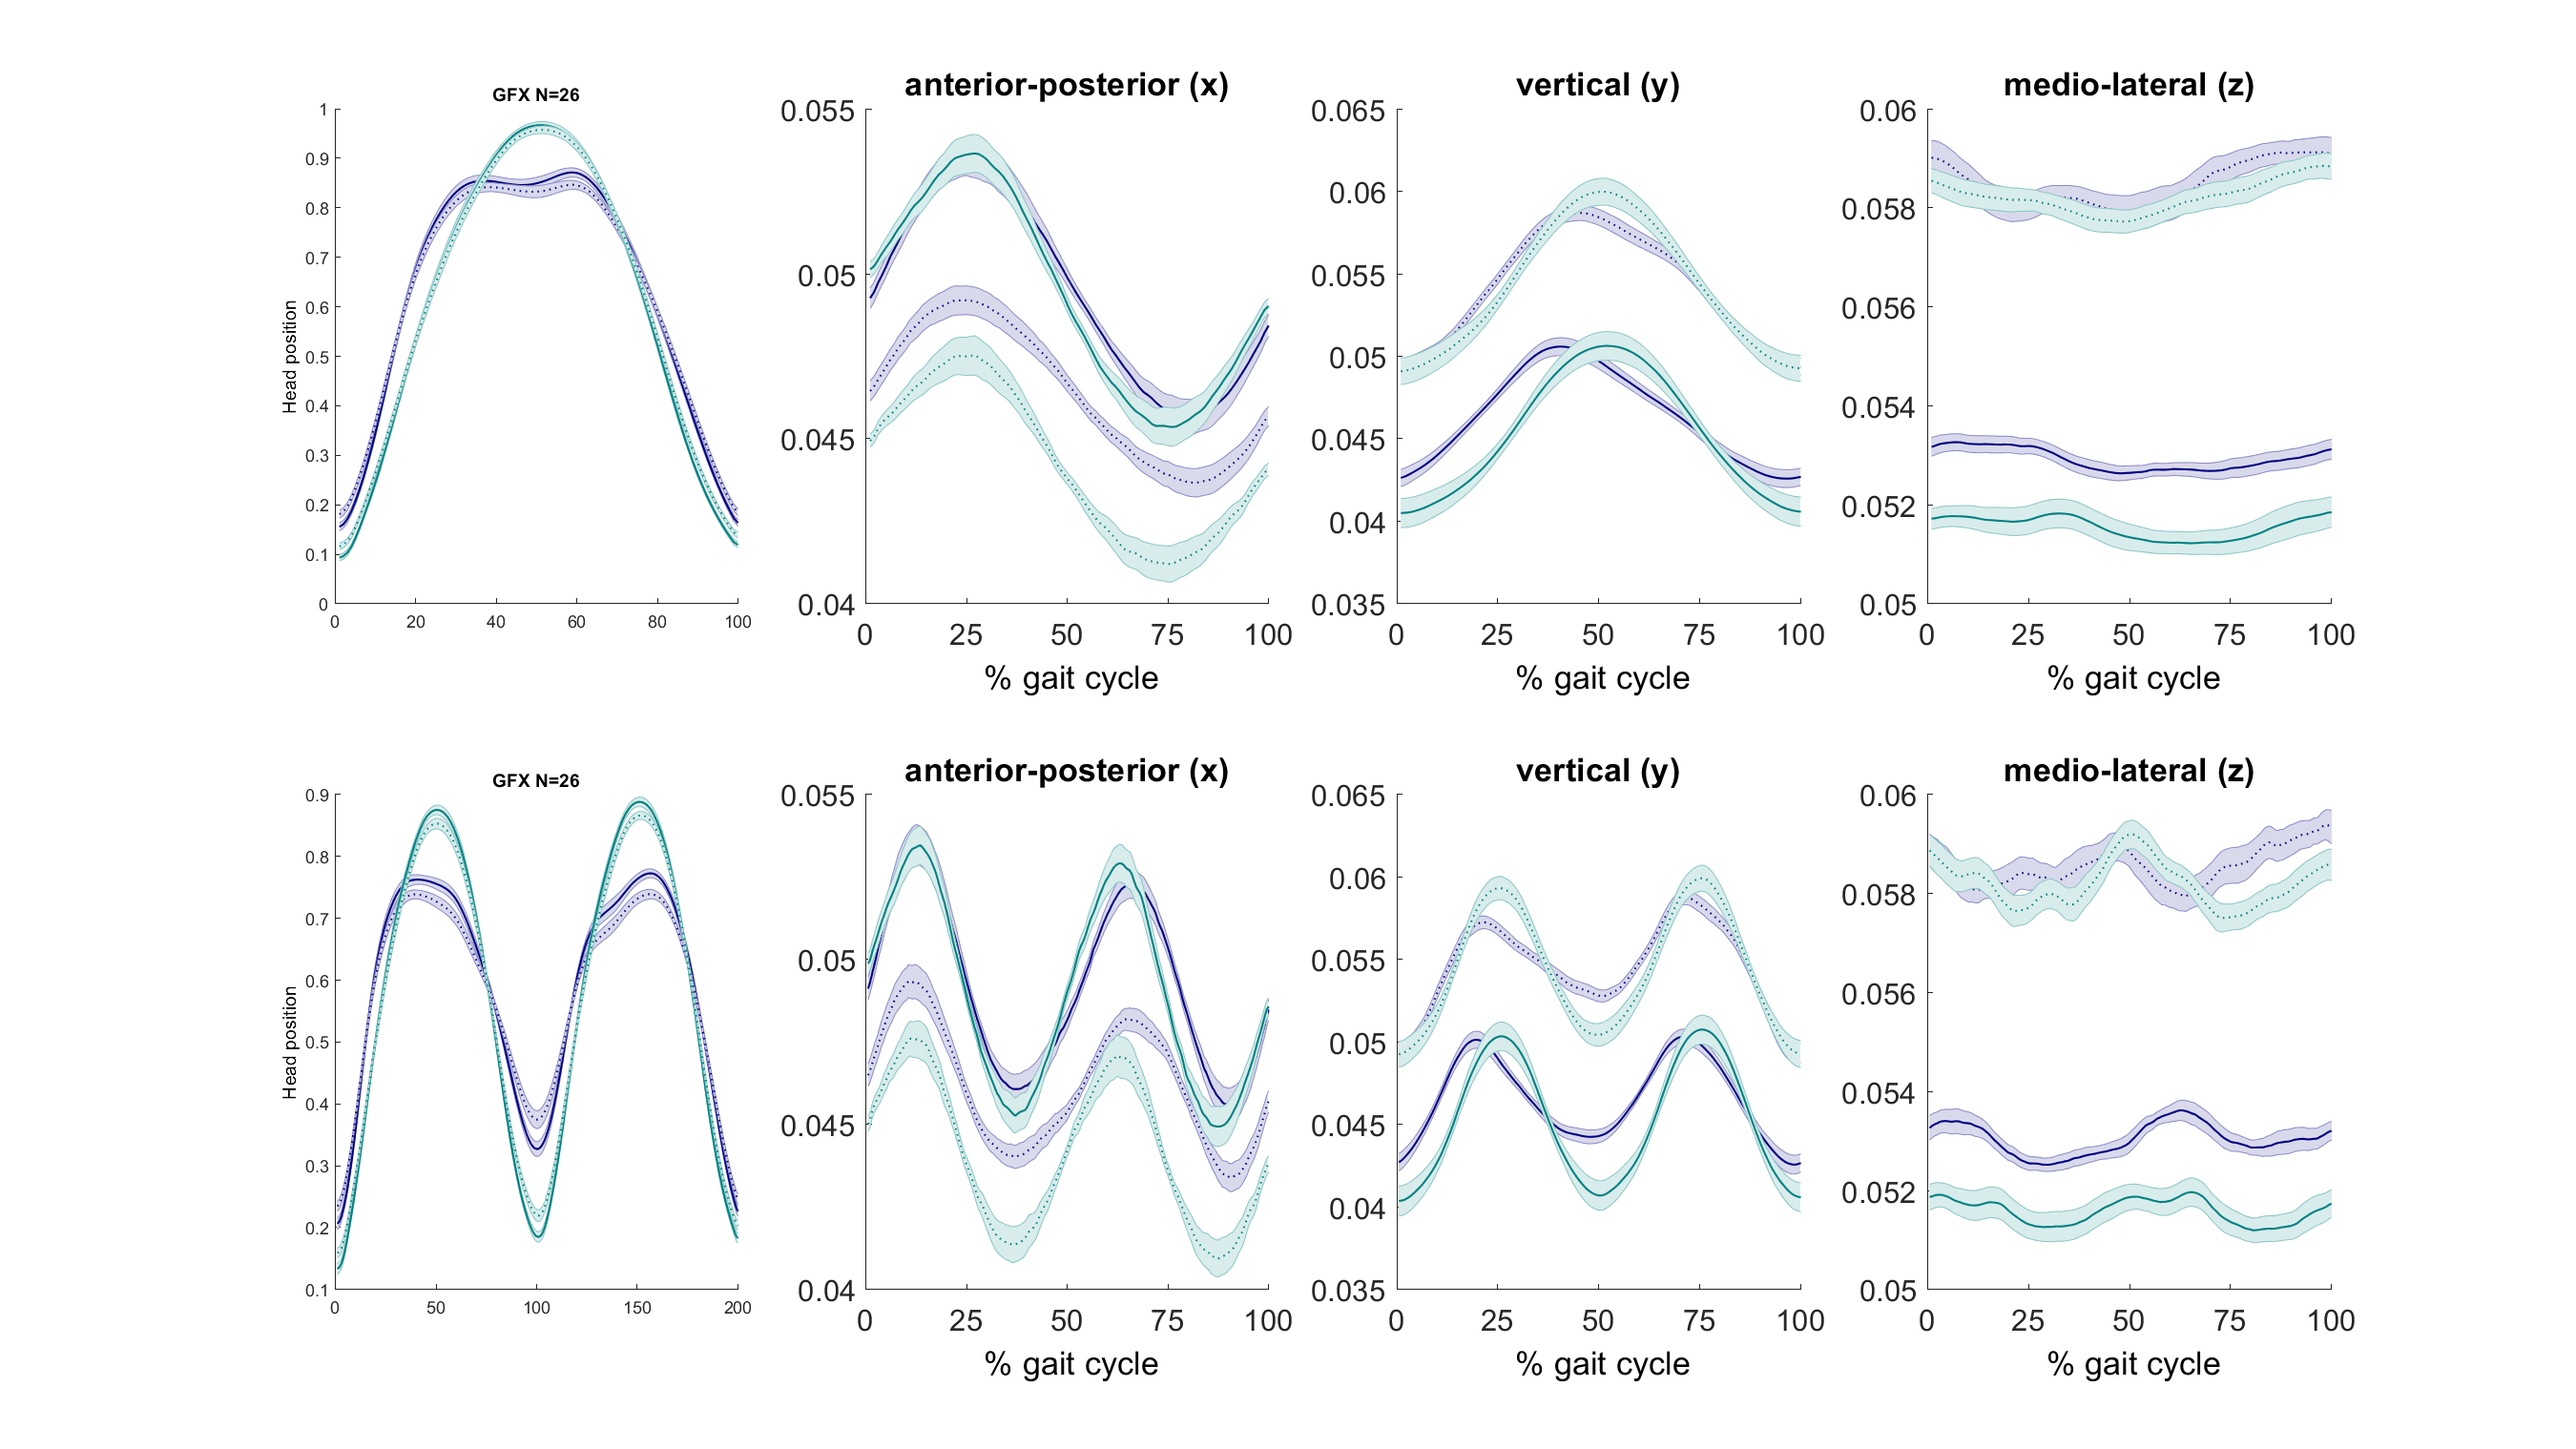
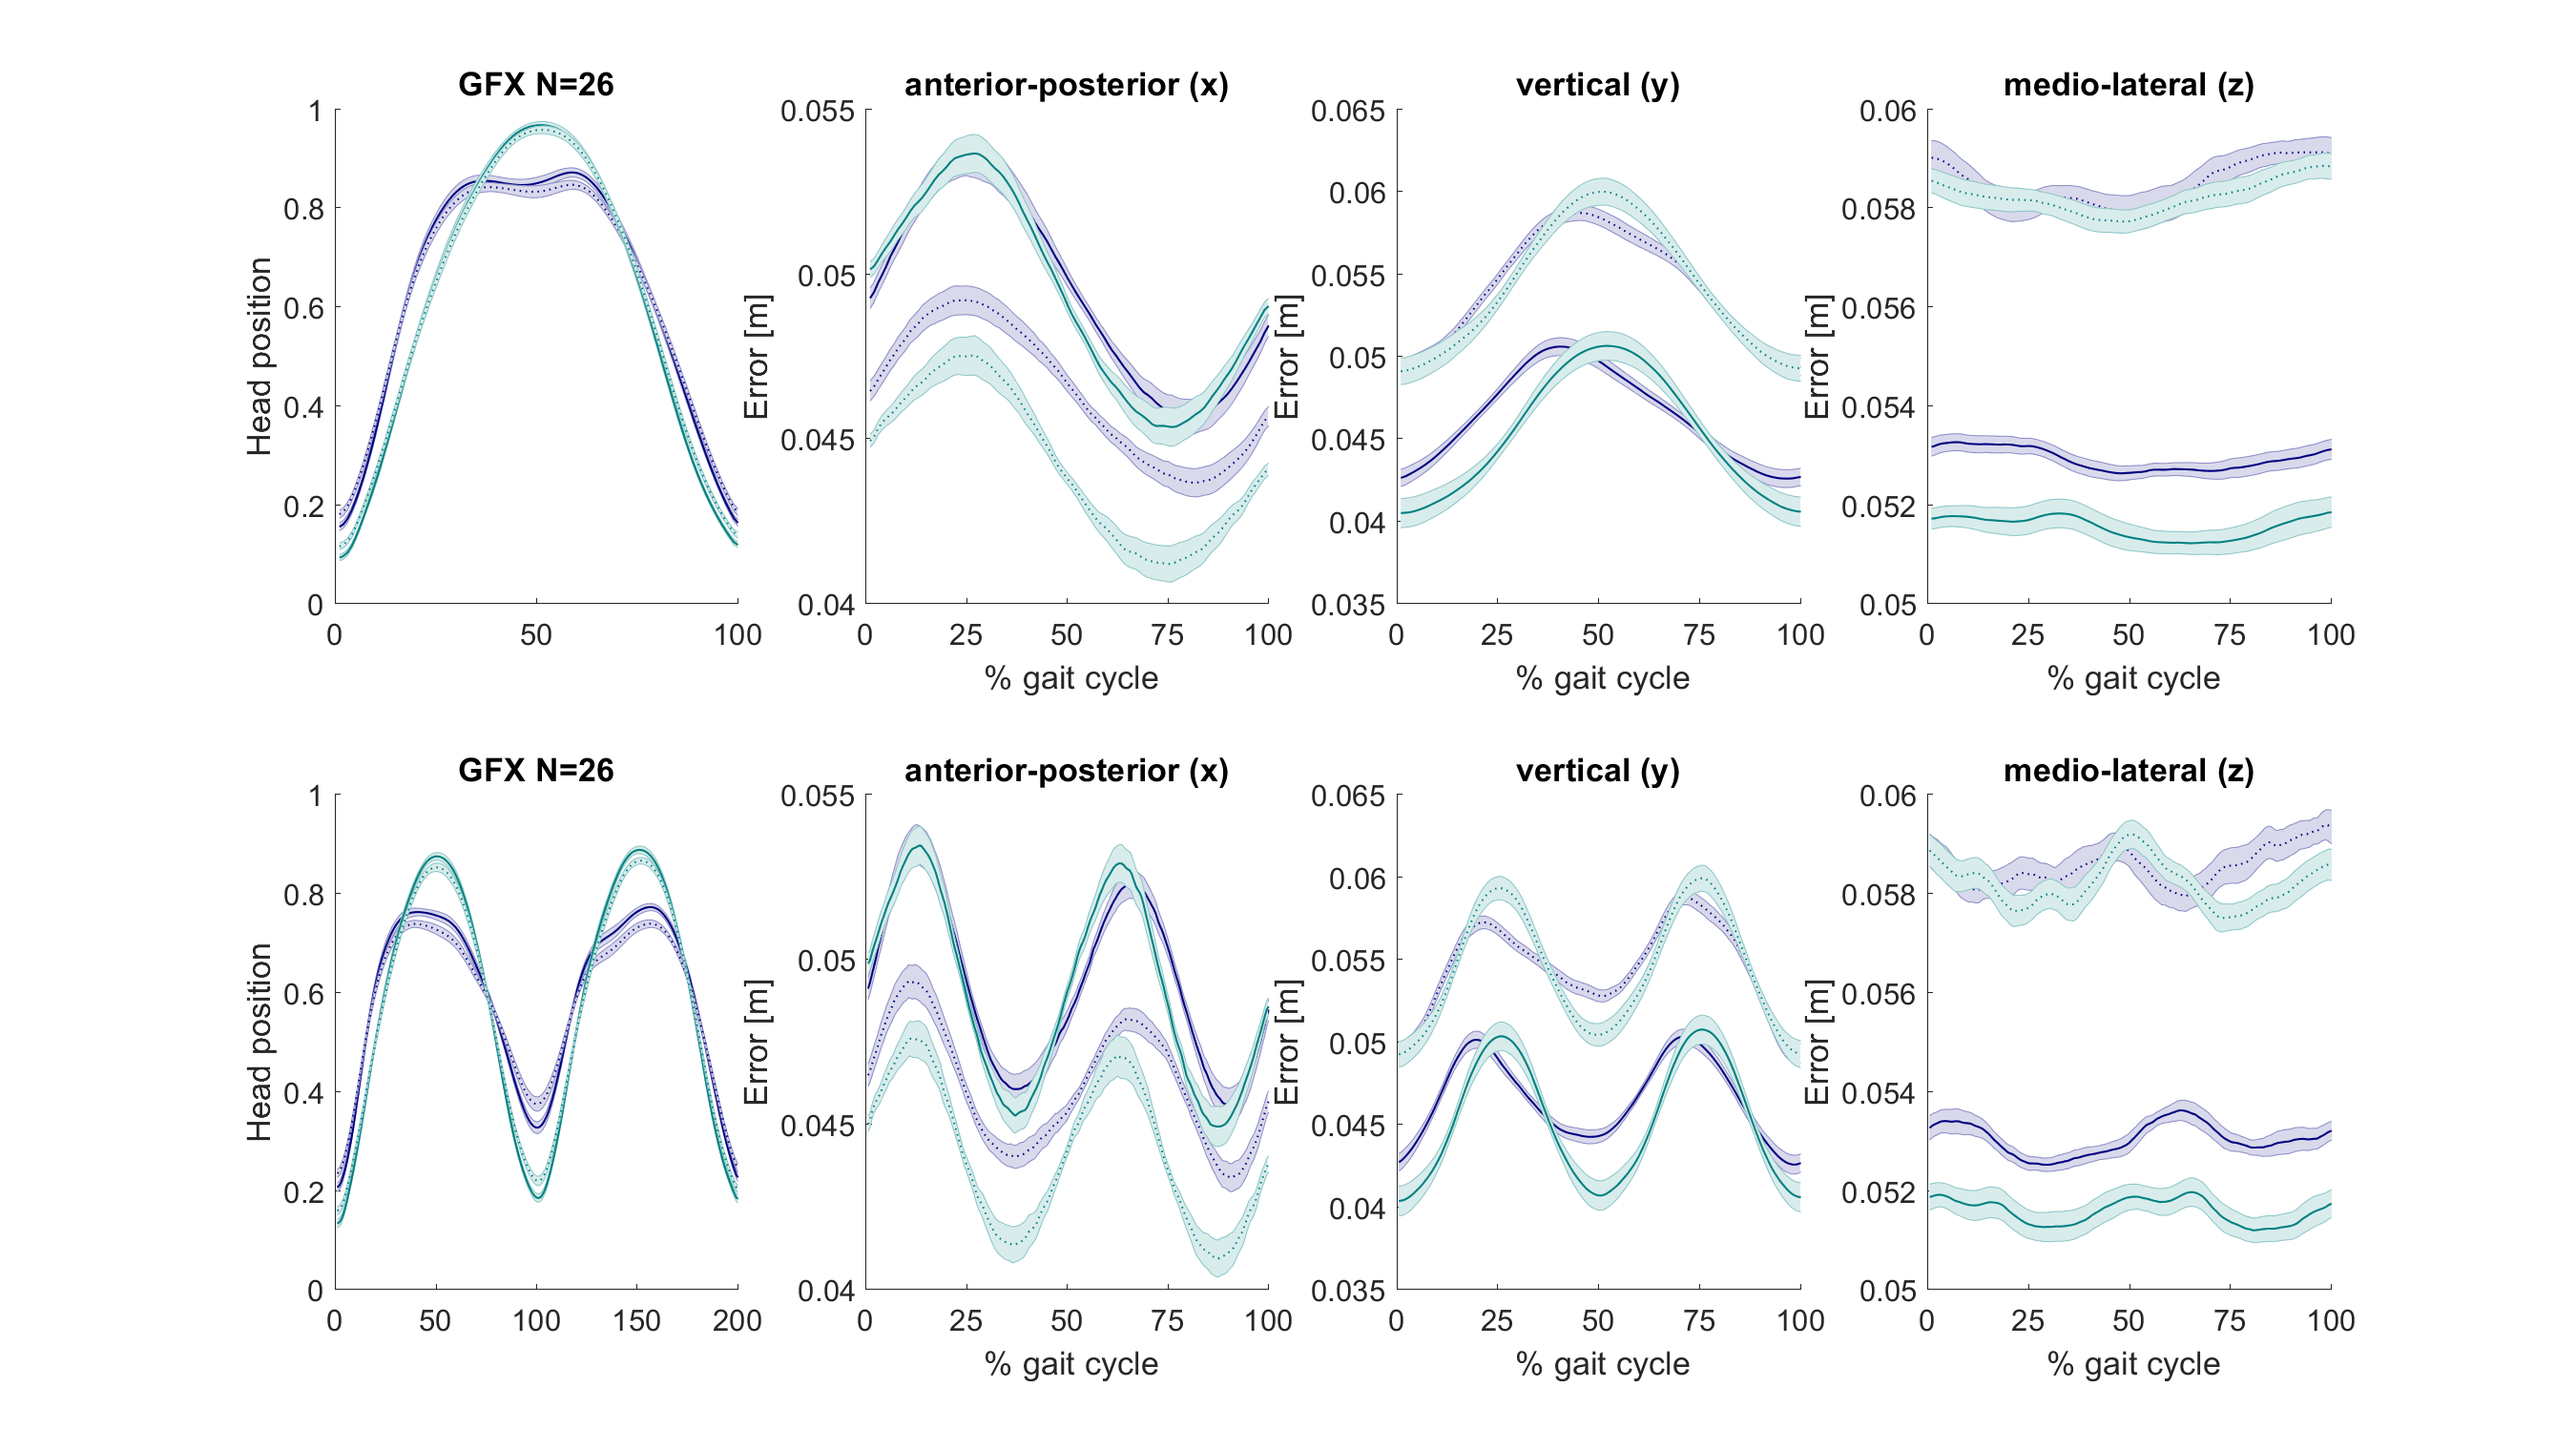
figure output updated (text size)

diff --git a/Analysis Code/Tracking ver 0/support_files/plot_HandTargError.m b/Analysis Code/Tracking ver 0/support_files/plot_HandTargError.m
@@ -144,13 +144,13 @@ elseif strcmp(cfg.plotlevel, 'GFX')
                     
 %                     if comparing variance, fast and slow targs need to be
 %                     on different axes:
-                    if iplotdata==2 && strcmp(cfg.errortype, 'std') && mod(itrialtype,2)==0
-                        yyaxis left
-                  
-                    elseif iplotdata==2 && strcmp(cfg.errortype, 'std') && mod(itrialtype,2)~=0
-                        yyaxis right
-                    end
-                    
+%                     if iplotdata==2 && strcmp(cfg.errortype, 'std') && mod(itrialtype,2)==0
+%                         yyaxis left
+%                   
+%                     elseif iplotdata==2 && strcmp(cfg.errortype, 'std') && mod(itrialtype,2)~=0
+%                         yyaxis right
+%                     end
+%                     
                     sh=shadedErrorBar(1:size(ppantData,3), meanP, stEP,...                                            
                    {'color', usecolsWalk{itrialtype},...
                         'linestyle', uselinesTarget{itrialtype},...
@@ -163,11 +163,11 @@ elseif strcmp(cfg.plotlevel, 'GFX')
                     
                     set(gca, 'xtick', xticks(nGaits_toPlot,:), ...
                         'XTickLabel', {'0' , '25' '50', '75', '100'},...
-                        'fontsize', 25);
+                        'fontsize', 15);
                     xlabel(' % gait cycle')
-                    
+                    if nGaits_toPlot==1
                     title([psubj ], 'interpreter', 'none')
-                    
+                    end
                     
                     if iplotdata==1 && nGaits_toPlot==1 && itrialtype==4
                         subplot(221); hold on

diff --git a/Analysis Code/Tracking ver 0/support_files/j4_plotError_by_gaitcycle.m b/Analysis Code/Tracking ver 0/support_files/j4_plotError_by_gaitcycle.m
@@ -7,12 +7,12 @@ cd([datadir filesep 'ProcessedData'])
 pfols= dir([pwd  filesep '*PFX_data.mat']);
 nsubs= length(pfols);
 
-job.concatGFX=0;
+job.concatGFX=1;
 %PFX:
 job.plotPFX_gcycles=0; % single and dual gait cycles.
 %GFX:
-job.potGFX_granderror = 1; %raincloud plots, grand mean per condition.
-job.plotGFX_gcycles=0; % gaitcycles
+job.potGFX_granderror = 0; %raincloud plots, grand mean per condition.
+job.plotGFX_gcycles=1; % gaitcycles
 job.plotGFX_gcycles_sepdimensions= 0; % splits error by source (X, Y, or Z dimension).
 
 %job.plotmeanerrror + stderror (collapsed across gaitcycle points). show
@@ -124,7 +124,7 @@ if job.plotGFX_gcycles
     % pass in some details needed for accurate plots:
     cfg=[];
     cfg.subjIDs = subjIDs;
-    cfg.errortype = 'mean'; % std
+    cfg.errortype = 'std'; % std
     cfg.datadir= datadir; % for orienting to figures folder
     cfg.HeadData= GFX_headY;
     cfg.plotlevel = 'GFX';

diff --git a/Analysis Code/Tracking ver 0/support_files/plot_HandTargError_sepdimensions.m b/Analysis Code/Tracking ver 0/support_files/plot_HandTargError_sepdimensions.m
@@ -128,7 +128,7 @@ elseif strcmp(cfg.plotlevel, 'GFX')
                    ylabel('Head position');
                    
                     title([psubj ], 'interpreter', 'none')
-                    
+                    set(gca,'fontsize', 15)
                     pcounter=pcounter+1;
                     %% now overlay error (xyz)
                     titler={'anterior-posterior (x)', 'vertical (y)', 'medio-lateral (z)'};
@@ -149,7 +149,7 @@ elseif strcmp(cfg.plotlevel, 'GFX')
                         'fontsize', 15);
                     xlabel(' % gait cycle')
                     
-                    
+                    ylabel('Error [m]')
                         pcounter= pcounter+1;
                     end
                     %add plot handles for legend:
